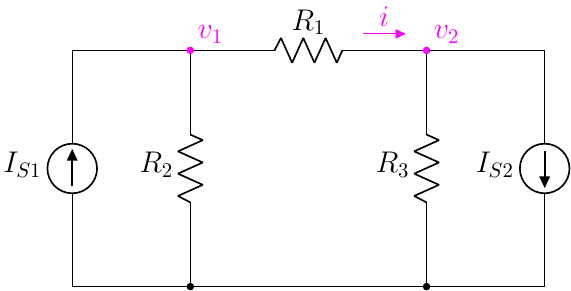
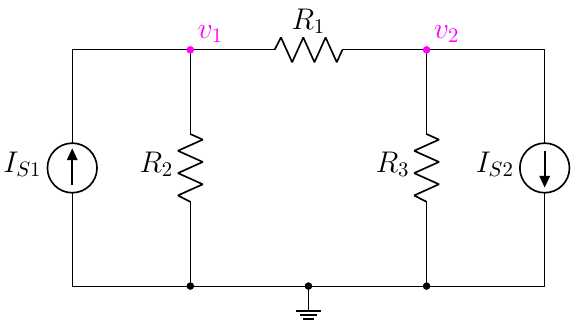
edit 4.8

diff --git a/1.3 Nodal Analysis/4.1 Nodal Analysis/4.8(new).tex b/1.3 Nodal Analysis/4.1 Nodal Analysis/4.8(new).tex
@@ -10,11 +10,12 @@
 
     %%% horizontal %%%
     \draw(0,0)  to[short,-*] ++(2,0) 
-                to[short,-*] ++(4,0) 
+                to[short,-*] ++(2,0) node[ground]{}
+                to[short,-*] ++(2,0)
                 to[short] ++(2,0);
     
-    \draw[circuitikz/current arrow color=magenta] (0,4) to[short] ++(2,0) 
-                to[R,l=\rname{1},f=$\color{magenta}{i}$] ++(4,0) 
+    \draw (0,4) to[short] ++(2,0) 
+                to[R,l=\rname{1}] ++(4,0) 
                 to[short] ++(2,0);
     %%% find %%%
     \nodev{2}{4}{1};
